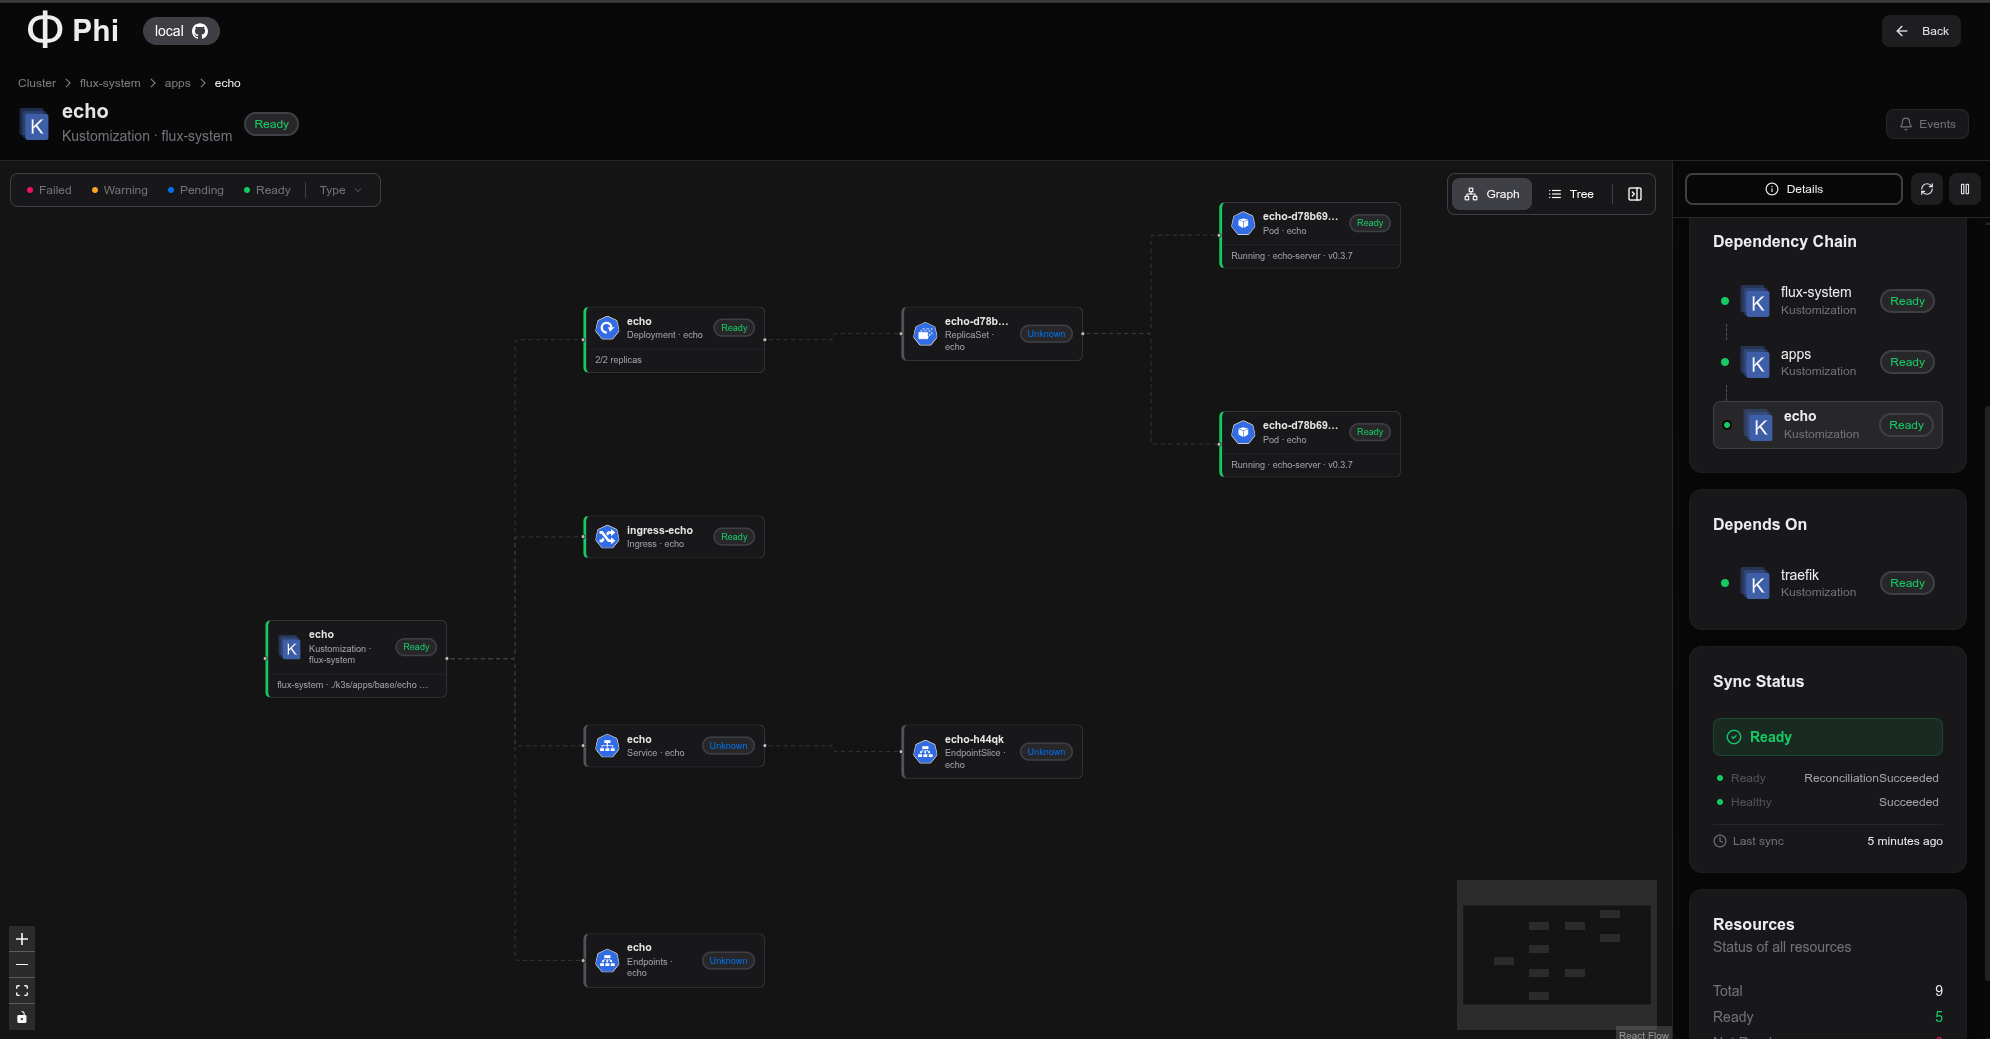
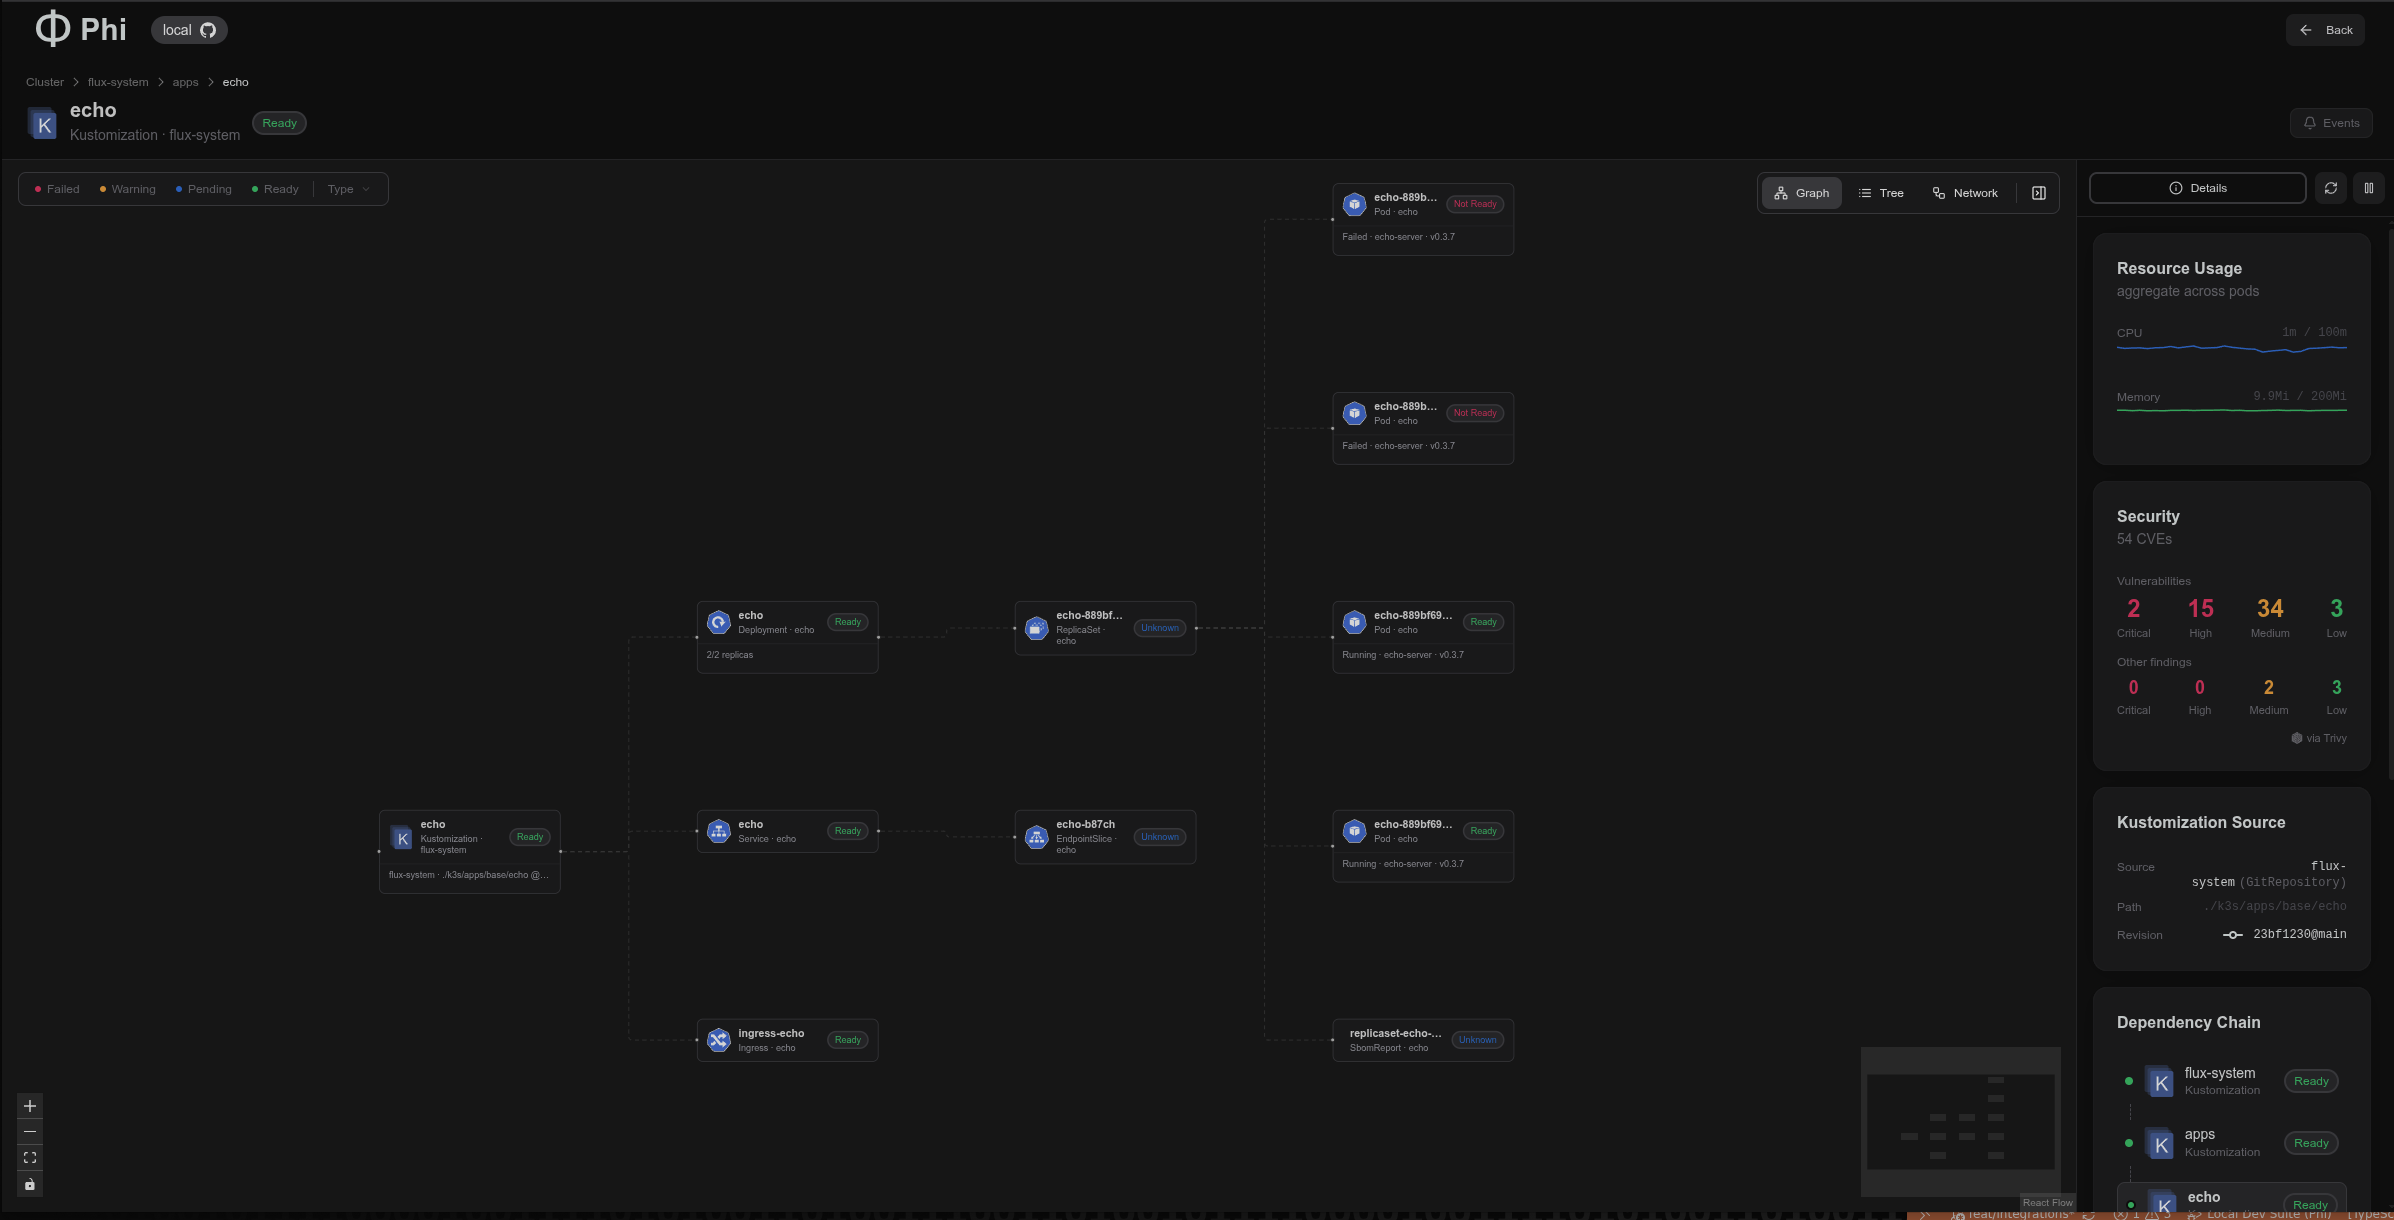
docs: update docs

diff --git a/README.md b/README.md
@@ -10,35 +10,30 @@ I work on it when I have time and feel like it, focusing on what I need, so expe
 
 Recently it has moved to an "agentic" supported development, since it does what I need it to do for my homelab, and I can focus my time on other projects.
 
-![img](./docs/dashboard.png)
-
-![img](./docs/tree.png)
+<table>
+  <tr>
+    <td><img src="./docs/dashboard.png" alt="img" width="500"></td>
+    <td><img src="./docs/tree.png" alt="img" width="500"></td>
+  </tr>
+  <tr>
+    <td><img src="./docs/network.png" alt="img" width="500"></td>
+    <td><img src="./docs/mcp.png" alt="MCP server" width="500"></td>
+  </tr>
+</table>
 
 ## Features
 
-- [X] Filter by Kind, Status, Suspended/Resumed
-- [X] Show FluxCD version
-- [X] Show FluxCD controllers status
-- [X] Show all flux resources (kustomizations, helmreleases, ...) and their repositories
-- [X] Show all resources created
-  - [X] Show ANY resource that has a problem
-- [X] Resource
-  - [X] Show graph / tree view
-  - [X] Show resources created count and status
-  - [X] Show resources created count and status
-  - [X] Show Sync Status
-    - [X] Show conditions
-  - [X] Show Depends On for kustomizations
-  - [X] Show Dependency Chain for kustomizations
-  - [X] Show repositories for Kustomizations and Helmreleases
-  - [X] Manually reconcile
-  - [X] Manually Suspend/Resume
-  - [X] Show resource events
-  - [X] Describe resource
-  - [X] Show pod logs
-- [X] Events
-  - [X] Show Cluster Events
-  - [X] Show FluxCD Events
+- Check resource status
+- Show resource dependencies
+- Sync / Pause sync from UI
+- Realtime logs per pod
+- Highlight not ready resources immediately
+- MCP server
+- Show network graph, including TLS status & traefik integration
+- Prometheus integration: show resource usage per pod and aggregate per kustomization, helmrelease
+- Trivy integration: show vulnerabilities aggregated per kustomization or helmrelease
+- Longhorn integration: show disk usage
+
 
 ## Local Development
 